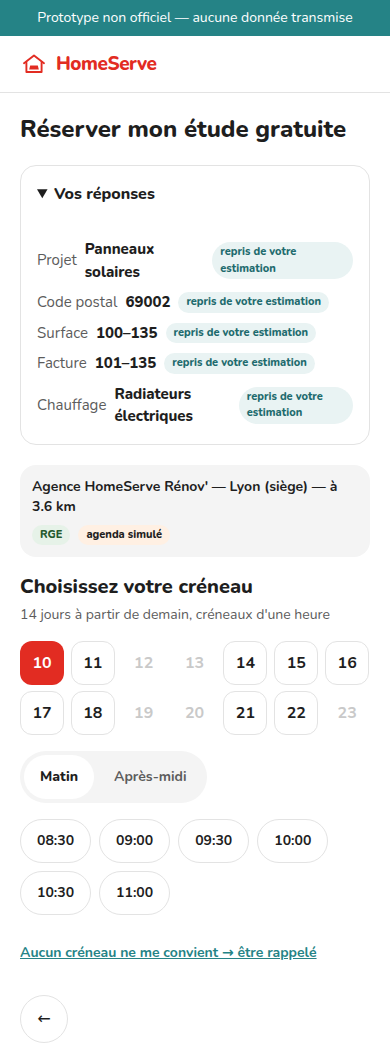
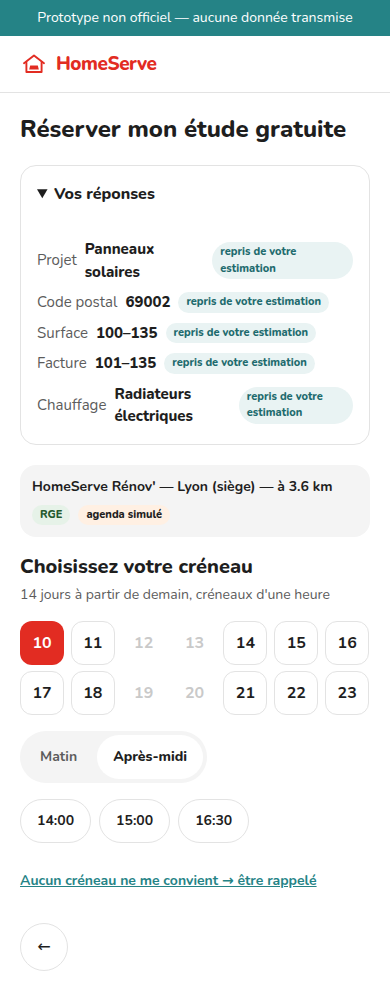
fix(rdv): le code postal du projet l'emporte sur celui de l'estimation
Une valeur collectée dans le parcours prime désormais sur celle héritée du
simulateur : l'adresse saisie en B14 est plus précise que le code postal de
l'estimation. Le panneau « Vos réponses » affiche celle du projet et perd le
badge « repris », et la règle de disponibilité d'agence route sur la bonne
commune — elle lisait encore le code postal du simulateur.

Quand les deux diffèrent, une note technicien le signale, portée par le champ
lui-même (`note_si_different` dans l'arbre) : le technicien sait avant de se
déplacer que la commune a changé.

Claude-Session: https://claude.ai/code/session_01NwWthX9S8Kxcjqkt96twac

diff --git a/engine/machine.ts b/engine/machine.ts
@@ -70,6 +70,11 @@ export type ChampNoeud = {
   requis?: boolean;
   aide?: string;
   prefill?: string;
+  /**
+   * Note technicien ajoutée quand la valeur saisie diffère de celle héritée
+   * du simulateur : `{avant}` et `{apres}` y sont substitués.
+   */
+  note_si_different?: string;
 };
 
 export type Noeud = {
@@ -202,9 +207,12 @@ export function creerMachine(
    * Valeur d'une clé du simulateur : héritée si le prefill la porte, sinon
    * lue sur le nœud qui la collecte (ou dans un champ de formulaire).
    */
+  /**
+   * Une valeur collectée dans le parcours l'emporte sur celle héritée du
+   * simulateur : l'adresse saisie en B14 est plus précise que le code postal
+   * de l'estimation, et c'est elle qui doit router l'agence.
+   */
   function valeurCle(cle: string): string | undefined {
-    if (herite[cle] !== undefined) return herite[cle];
-
     for (const [id, noeud] of Object.entries(arbre.noeuds)) {
       if (noeud.prefill === cle) {
         const valeur = reponses[id];
@@ -214,13 +222,14 @@ export function creerMachine(
         if (champ.prefill === cle) {
           const valeur = reponses[id];
           if (valeur && typeof valeur === "object" && !Array.isArray(valeur)) {
-            return valeur[champ.id];
+            const saisie = valeur[champ.id];
+            if (saisie) return saisie;
           }
         }
       }
     }
 
-    return undefined;
+    return herite[cle];
   }
 
   function projetCourant(): string | undefined {
@@ -424,6 +433,28 @@ export function creerMachine(
     if (!notesTechnicien.includes(note)) notesTechnicien.push(note);
   }
 
+  /**
+   * Le prospect a corrigé une réponse du simulateur : le technicien doit le
+   * savoir avant de se déplacer (le code postal du projet, notamment).
+   */
+  function noterEcartsPrefill(noeud: Noeud, valeur: ValeurReponse) {
+    if (!valeur || typeof valeur !== "object" || Array.isArray(valeur)) return;
+
+    for (const champ of noeud.champs ?? []) {
+      if (!champ.prefill || !champ.note_si_different) continue;
+
+      const avant = herite[champ.prefill];
+      const apres = valeur[champ.id];
+      if (!avant || !apres || avant === apres) continue;
+
+      noter(
+        champ.note_si_different
+          .replaceAll("{avant}", avant)
+          .replaceAll("{apres}", apres),
+      );
+    }
+  }
+
   function noterOption(option: OptionNoeud | undefined) {
     if (option?.note_technicien) noter(option.note_technicien);
     // D57 : réserver malgré une règle de non-rentabilité se dit au technicien.
@@ -539,6 +570,7 @@ export function creerMachine(
       }
 
       case "form": {
+        noterEcartsPrefill(noeud, valeur);
         allerVers(appliquerGarde(noeud, valeur));
         return;
       }

diff --git a/test/engine/machine.test.ts b/test/engine/machine.test.ts
@@ -342,6 +342,42 @@ describe("orientations avec choix (D57)", () => {
   });
 });
 
+describe("code postal du projet (lot 5)", () => {
+  function jusquaAdresse(cpSimulateur = "69002") {
+    const m = creerMachine(arbre, {
+      projet: "solaire",
+      prefill: { cp: cpSimulateur },
+    });
+    repondreJusqua(m, [["B0", "maison"], ["B1", "proprietaire"], ["B2", "non"], ["B3", "solaire"], ["B5", "101-135"], ["B6", "principale"], ["B7", "100-135"], ["B9", ">1997"], ["B10", "renovee"], ["B12", "tuile"]]);
+    return m;
+  }
+
+  it("l'adresse saisie l'emporte sur le code postal de l'estimation", () => {
+    const m = jusquaAdresse("69002");
+    m.repondre({ adresse: "1 rue Nationale", cp: "21000", ville: "Dijon" });
+
+    expect(m.courant()).toMatchObject({ type: "noeud", id: "B15" });
+    expect(m.etat().reponses.B14).toMatchObject({ cp: "21000" });
+  });
+
+  it("un code postal différent est signalé au technicien", () => {
+    const m = jusquaAdresse("69002");
+    m.repondre({ adresse: "1 rue Nationale", cp: "21000", ville: "Dijon" });
+
+    const notes = m.etat().notesTechnicien;
+    expect(notes.some((n) => n.includes("21000") && n.includes("69002"))).toBe(
+      true,
+    );
+  });
+
+  it("un code postal identique ne produit aucune note", () => {
+    const m = jusquaAdresse("69002");
+    m.repondre({ adresse: "1 place Bellecour", cp: "69002", ville: "Lyon" });
+
+    expect(m.etat().notesTechnicien).toEqual([]);
+  });
+});
+
 describe("retour arrière", () => {
   it("retour() revient au nœud précédent et efface sa réponse", () => {
     const m = creerMachine(arbre);

diff --git a/components/MachineRdv.tsx b/components/MachineRdv.tsx
@@ -144,14 +144,23 @@ export function MachineRdv() {
     rafraichir();
   }
 
+  // Le code postal affiché est celui du projet dès que l'adresse est saisie
+  // en B14 : c'est lui qui route l'agence. Il perd alors le badge « repris ».
+  const cpCourant = cpDe(etatMachine.reponses, etat);
+
   const lignes: LigneReponse[] = CLES_PREFILL.filter(
     (cle) => typeof etat.reponses[cle] === "string",
-  ).map((cle) => ({
-    cle,
-    libelle: LIBELLES_PREFILL[cle],
-    valeur: libelleReponse(cle, String(etat.reponses[cle])),
-    herite: true,
-  }));
+  ).map((cle) => {
+    const herite = String(etat.reponses[cle]);
+    const valeur = cle === "cp" ? cpCourant : herite;
+
+    return {
+      cle,
+      libelle: LIBELLES_PREFILL[cle],
+      valeur: libelleReponse(cle, valeur),
+      herite: valeur === herite,
+    };
+  });
 
   return (
     <main className="mx-auto flex w-full max-w-md flex-col gap-5 p-5">
@@ -168,7 +177,7 @@ export function MachineRdv() {
       <NoeudRendu
         id={id}
         noeud={noeud}
-        cp={cpDe(etatMachine.reponses, etat)}
+        cp={cpCourant}
         options={pilote.optionsDe(noeud)}
         nonEligible={etatMachine.nonEligible}
         etat={etat}
